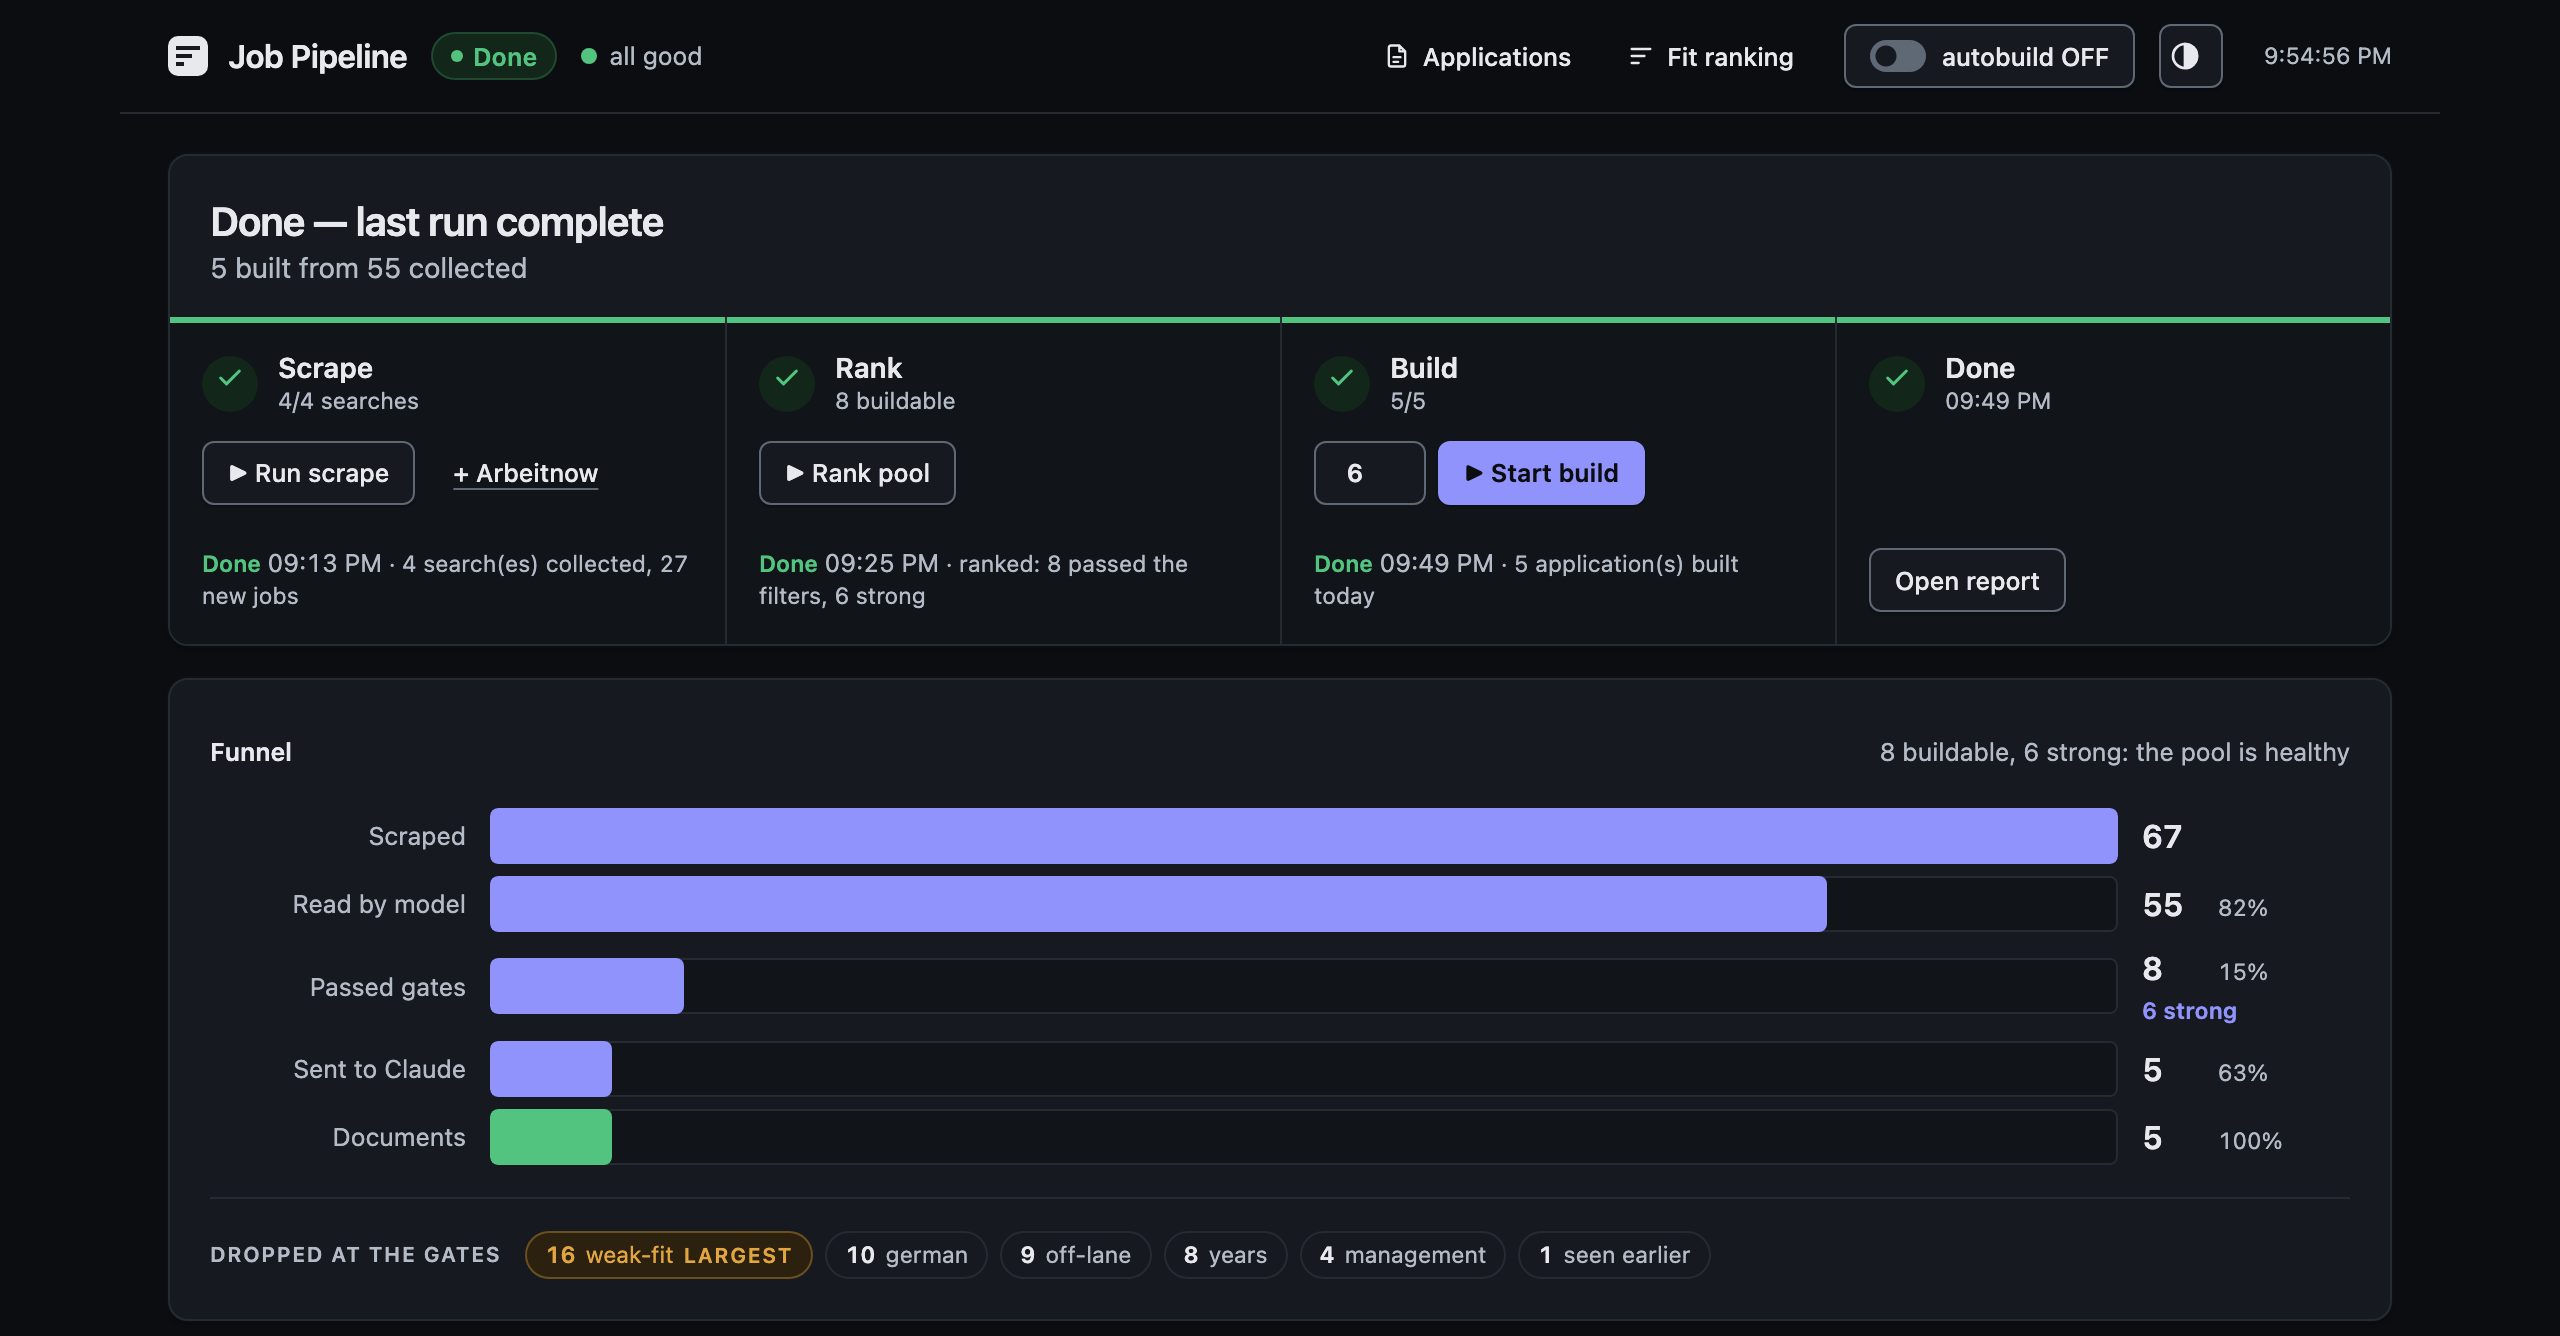
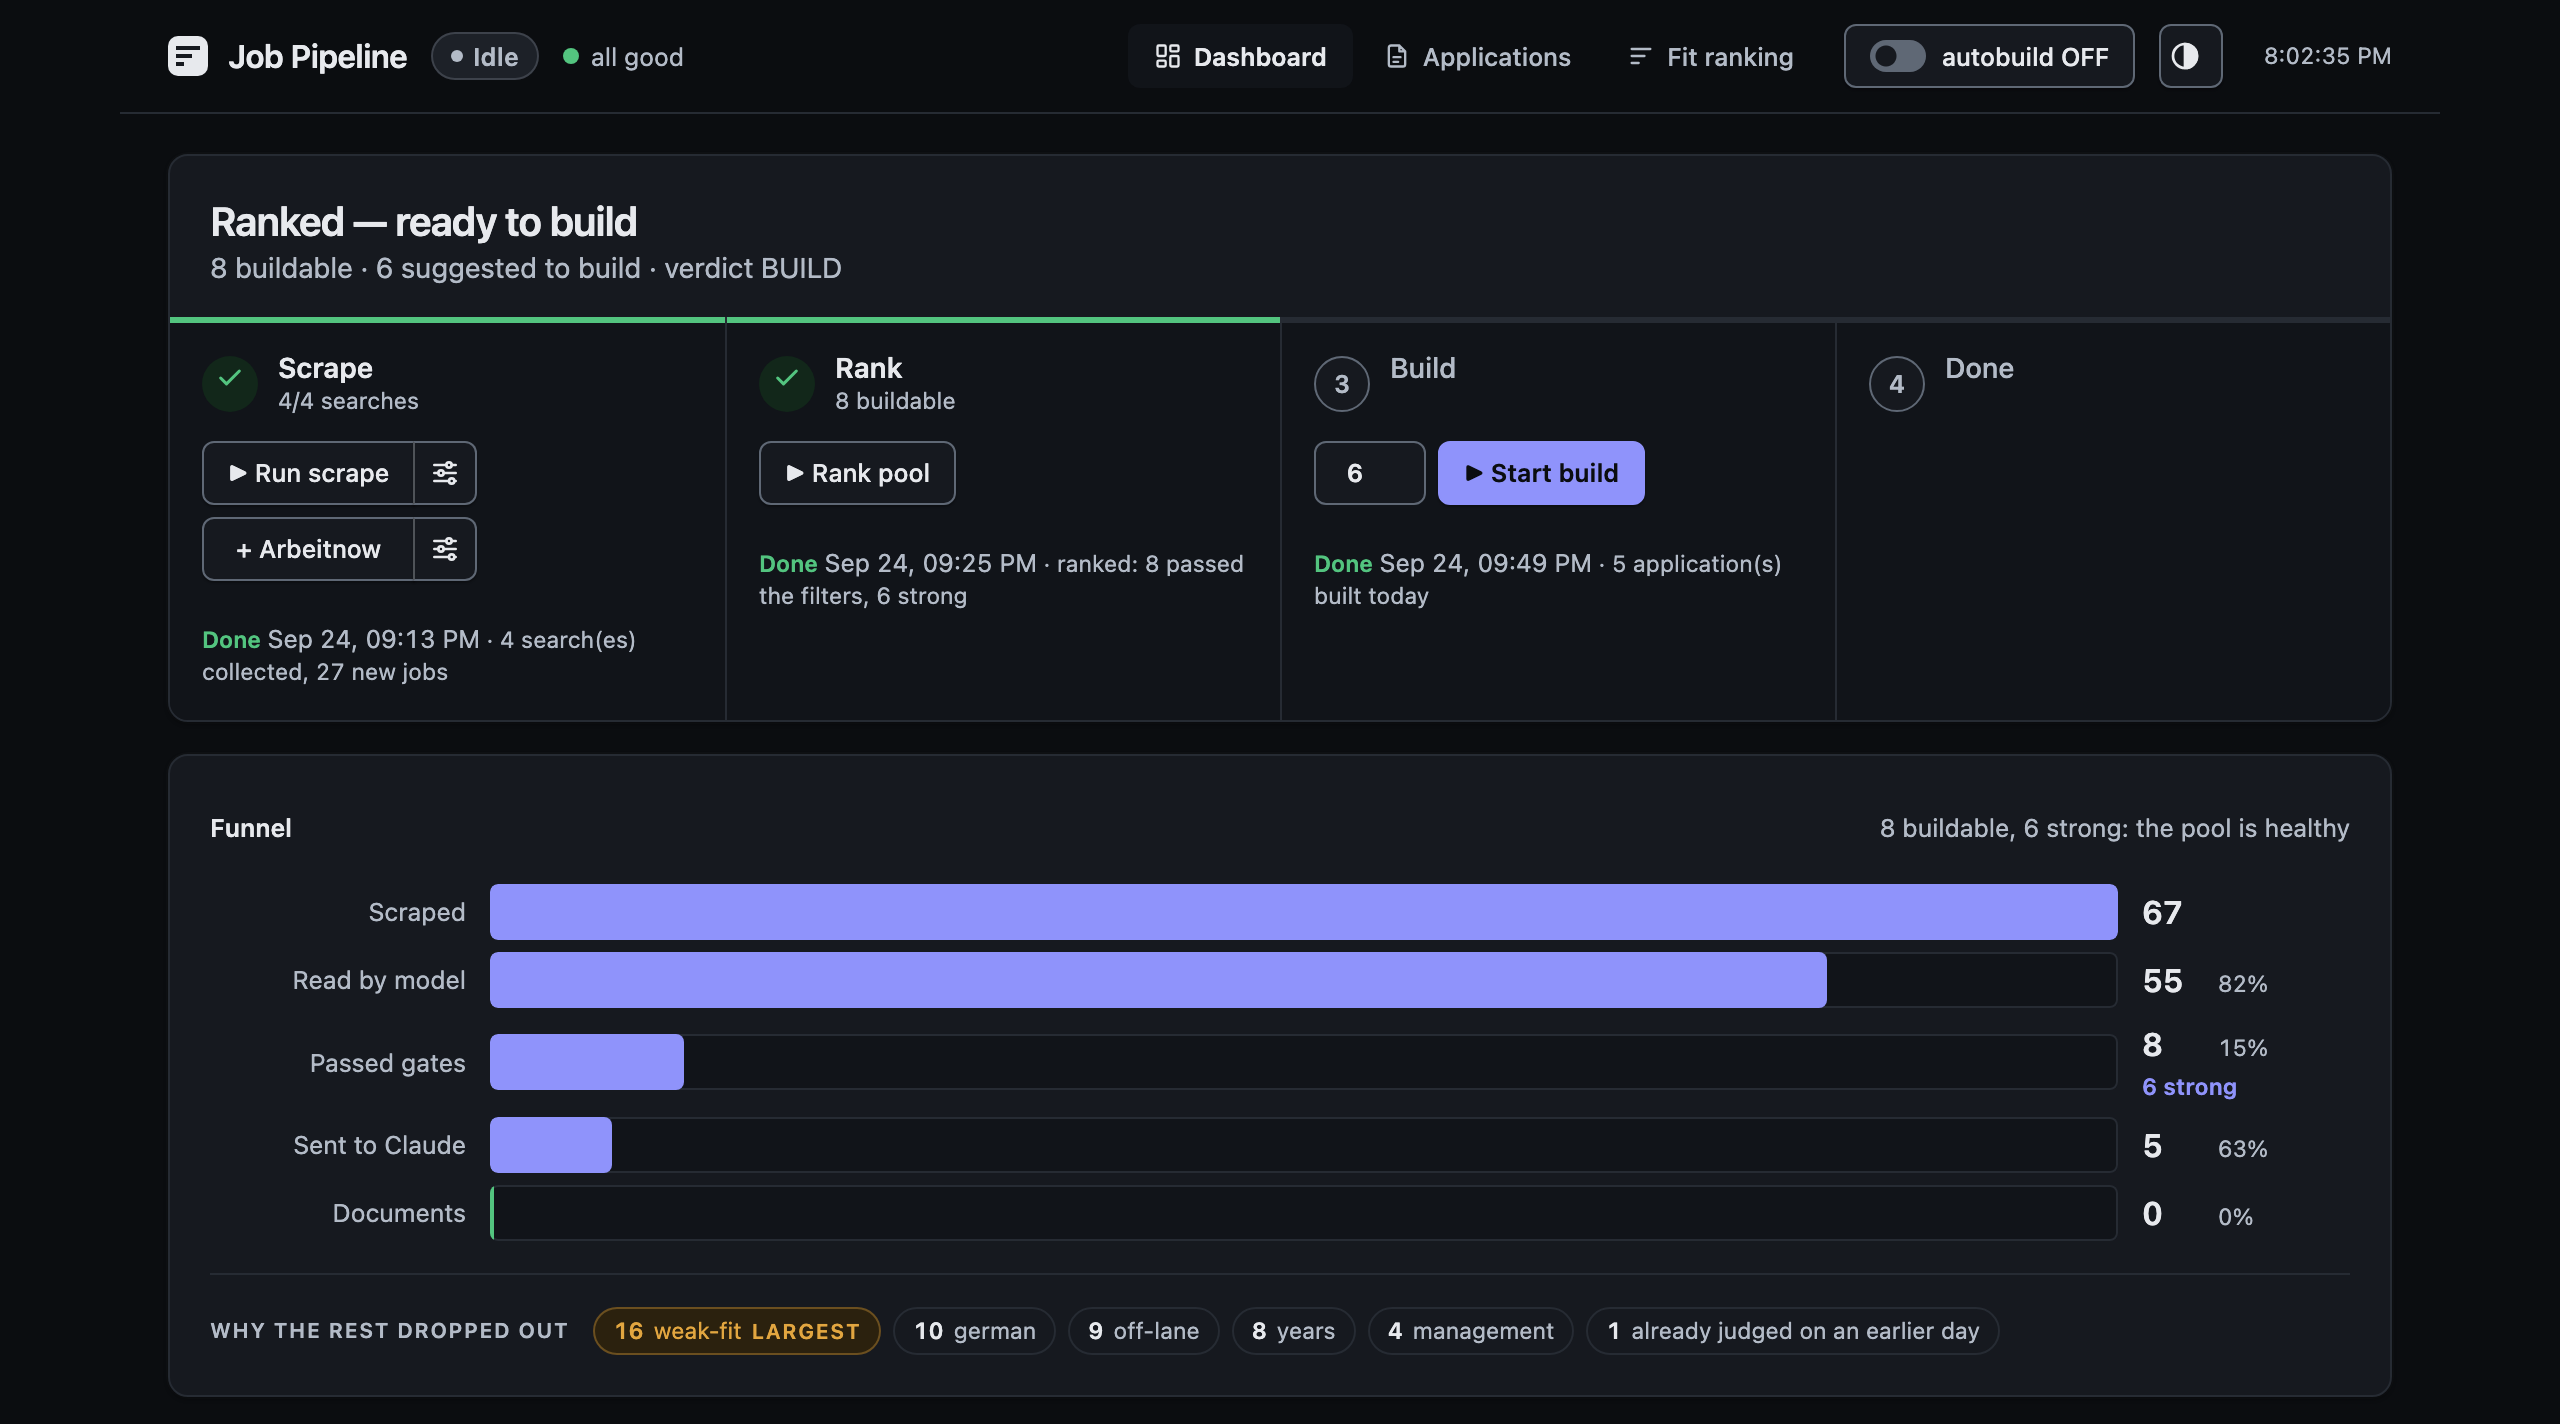
Docs: new dashboard screenshot and wording for the split Scrape buttons

diff --git a/README.md b/README.md
@@ -41,7 +41,7 @@ flowchart LR
 
 | Step | You do | It does |
 |---|---|---|
-| **Collect** | press **+ Arbeitnow**, or run your saved LinkedIn, Indeed and StepStone searches from the Chrome extension | gathers postings with their full descriptions; from Arbeitnow it keeps the jobs that match your searches by meaning |
+| **Collect** | press **+ Arbeitnow**, and **Run scrape** for your saved LinkedIn, Indeed and StepStone searches (run in Chrome by the extension) | gathers postings with their full descriptions; from Arbeitnow it keeps the jobs that match your searches by meaning |
 | **Rank** | press **Rank pool** | a local AI reads every posting and drops the ones that don't fit: wrong language, too senior, wrong field |
 | **Build** | choose how many, press **Build** | Claude writes a one-page CV and a cover letter for each of the best matches |
 | **Apply** | open **Applications**, download, send | |
@@ -187,7 +187,7 @@ profile, like any other job.
 
 ![The Arbeitnow window: two searches, how close a match, and how many jobs would be kept](docs/screenshots/arbeitnow.png)
 
-**Edit them** with the settings button next to **+ Arbeitnow** (or **Set them
+**Edit them** with the settings button attached to **+ Arbeitnow** (or **Set them
 on the dashboard** in the extension). The window has three tabs:
 
 - **Searches.** One card per kind of job. Describe the work, not only the title:

diff --git a/docs/GUIDE.md b/docs/GUIDE.md
@@ -181,7 +181,7 @@ by day.
 
 | Source | Needs | Notes |
 |---|---|---|
-| **Arbeitnow** | Ollama | free public API, full descriptions, Germany-focused. The **+ Arbeitnow** button; searches set in its panel. |
+| **Arbeitnow** | Ollama | free public API, full descriptions, Germany-focused. The **+ Arbeitnow** button; searches set with the settings button attached to it. |
 | **LinkedIn** | Chrome + login | the richest source |
 | **Indeed** | Chrome + login | sometimes challenges automated reading; fine at human pace |
 | **StepStone** | Chrome | German market |
